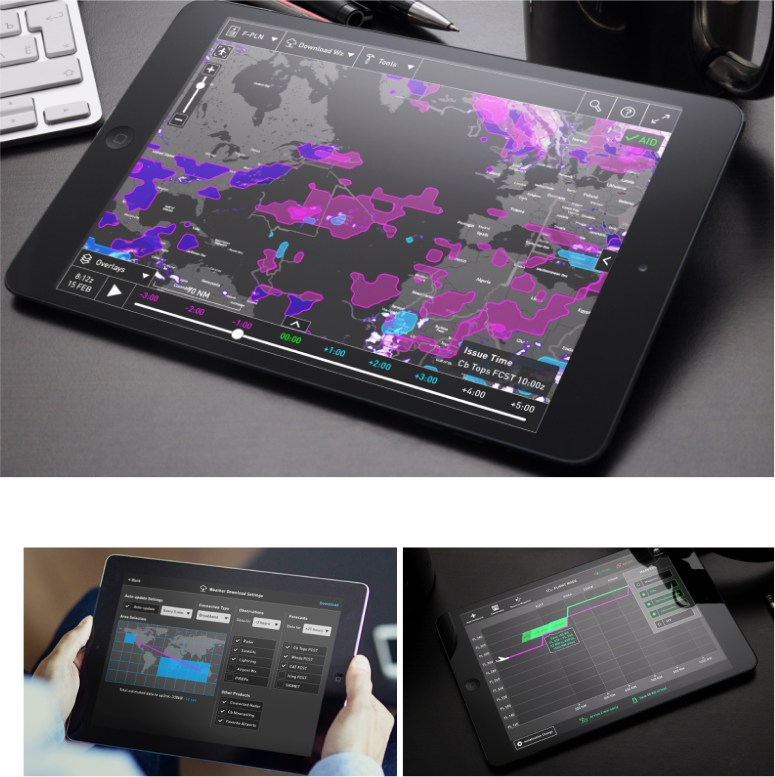
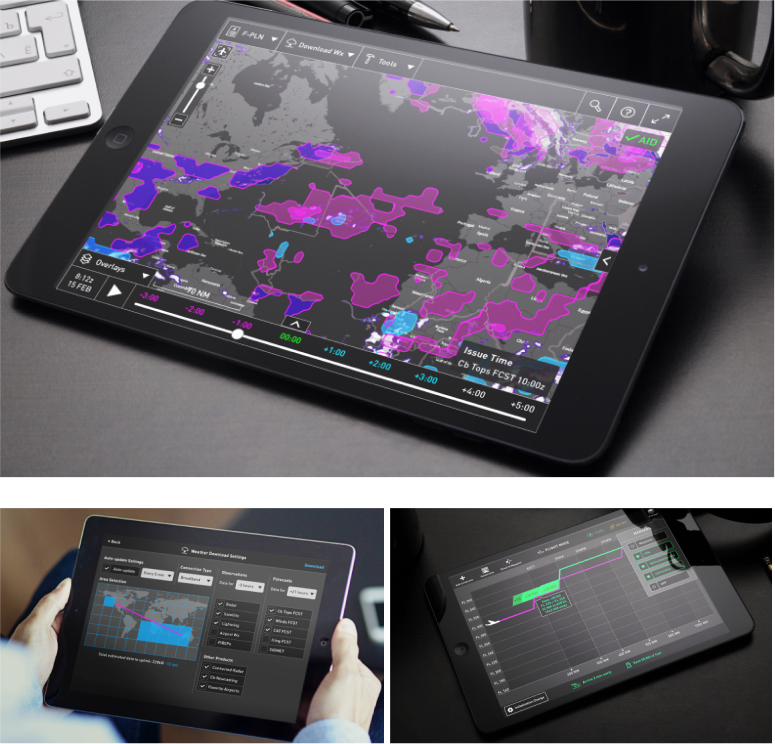
iamges

diff --git a/case.html b/case.html
@@ -212,7 +212,7 @@ I learned a lot about how does an aircraft software and hardware work, what's th
 <br><br><br>
 
 
-    <img src="h1.png" style="width: 100%;">
+    <img src="h1.png" style="width: 70%;">
 
     <br><br>
 
